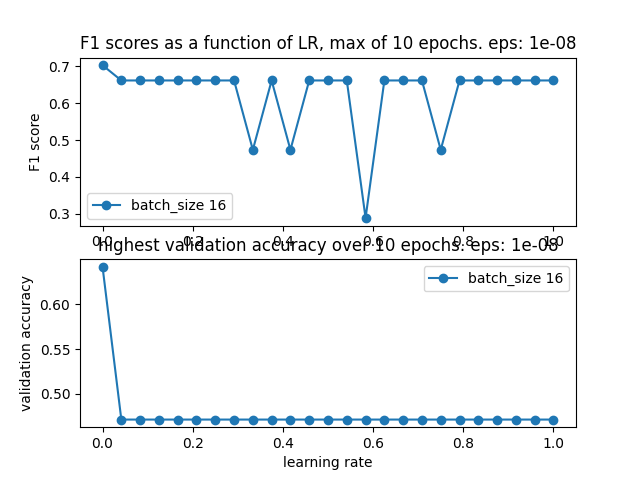
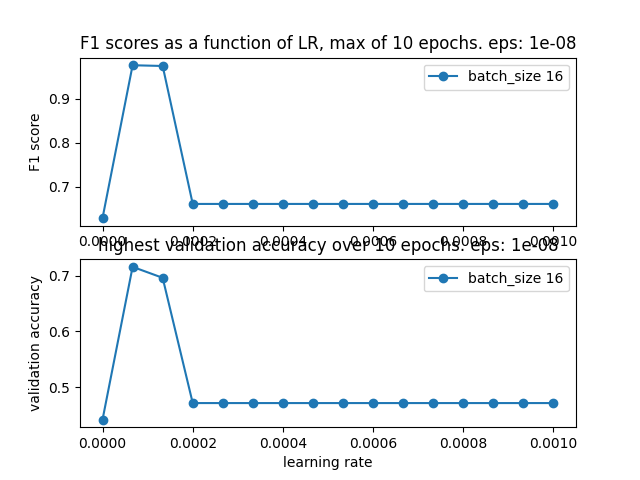
end of day

diff --git a/stackabuse_nlp.py b/stackabuse_nlp.py
@@ -1,0 +1,63 @@
+'''
+https://stackabuse.com/python-for-nlp-sentiment-analysis-with-scikit-learn/
+'''
+import re
+import nltk
+import numpy as np
+import pandas as pd
+import matplotlib.pyplot as plt 
+import sklearn
+from sklearn.ensemble import RandomForestClassifier
+from nltk.corpus import stopwords
+from sklearn.feature_extraction.text import TfidfVectorizer
+from sklearn.model_selection import train_test_split
+
+data = pd.read_csv('data/annotaion_3000_012label.csv', usecols = ['text', 'label']) 
+
+labels = data['label'].values
+text = data['text'].values
+
+processed_features = []
+nltk.download('stopwords')
+for sentence in range(len(text)):
+    #all special characters
+    processed_feature = re.sub(r'\W', ' ', str(text[sentence]))
+
+    # remove all single characters
+    processed_feature= re.sub(r'\s+[a-zA-Z]\s+', ' ', processed_feature)
+
+    # Remove single characters from the start
+    processed_feature = re.sub(r'\^[a-zA-Z]\s+', ' ', processed_feature)
+
+    # Substituting multiple spaces with single space
+    processed_feature = re.sub(r'\s+', ' ', processed_feature, flags=re.I)
+
+    # Removing prefixed 'b'
+    processed_feature = re.sub(r'^b\s+', '', processed_feature)
+
+    # Converting to Lowercase
+    processed_feature = processed_feature.lower()
+
+    processed_features.append(processed_feature)
+
+
+vectorizer = TfidfVectorizer(max_features=2500, min_df=7, max_df=0.8, stop_words=stopwords.words('english'))
+processed_features = vectorizer.fit_transform(processed_features).toarray()
+
+
+X_train, X_test, Y_train, Y_test = train_test_split(processed_features, 
+                                                             labels, 
+                                                             test_size=0.2,
+                                                             shuffle=True)
+
+text_classifier = RandomForestClassifier(n_estimators = 120000, random_state = 0)
+text_classifier.fit(X_train, Y_train)
+
+
+predictions = text_classifier.predict(X_test)
+
+from sklearn.metrics import classification_report, confusion_matrix, accuracy_score
+
+print(confusion_matrix(Y_test,predictions))
+print(classification_report(Y_test,predictions))
+print(accuracy_score(Y_test, predictions))

diff --git a/NorBert_utls/natalya_finetuning.py b/NorBert_utls/natalya_finetuning.py
@@ -507,7 +507,7 @@ def train_and_verify(batch_size, lr, eps, epochs, model_path):
 
 if __name__ == '__main__':
 
-    lrs = np.linspace(1e-6, 1, 25)
+    lrs = np.linspace(1e-8, 0.001, 16)
     #lrs = [1e-5]
     batch_sizes = [16]
 
@@ -521,7 +521,7 @@ if __name__ == '__main__':
     
     #df_stats, test_set_stat = train_and_verify(batch_sizes[0], lrs[0], eps, epochs, model_path) 
     
-    fig, ax = plt.subplots(5,5)
+    fig, ax = plt.subplots(4,4)
      
     plt.suptitle("Training loss, Validation Loss & accuracy")
     ax = ax.ravel()
@@ -548,7 +548,7 @@ if __name__ == '__main__':
             figure_ += 1
 
 
-    fig.savefig('runs/loss_accuracy_validationgrid.png', dpi = 400)
+    fig.savefig('runs/loss_accuracy_validationgrid.png')
 
 
     plt.clf()
